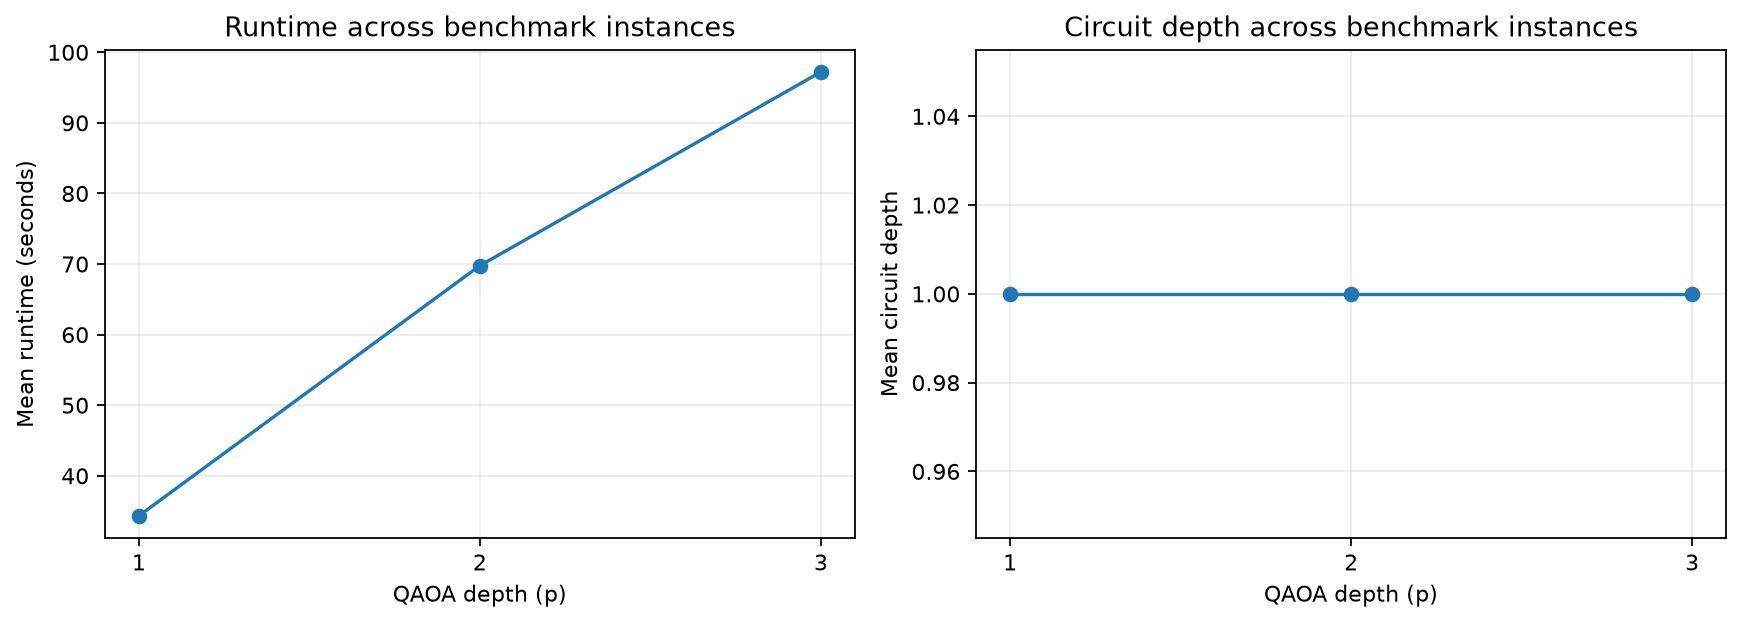
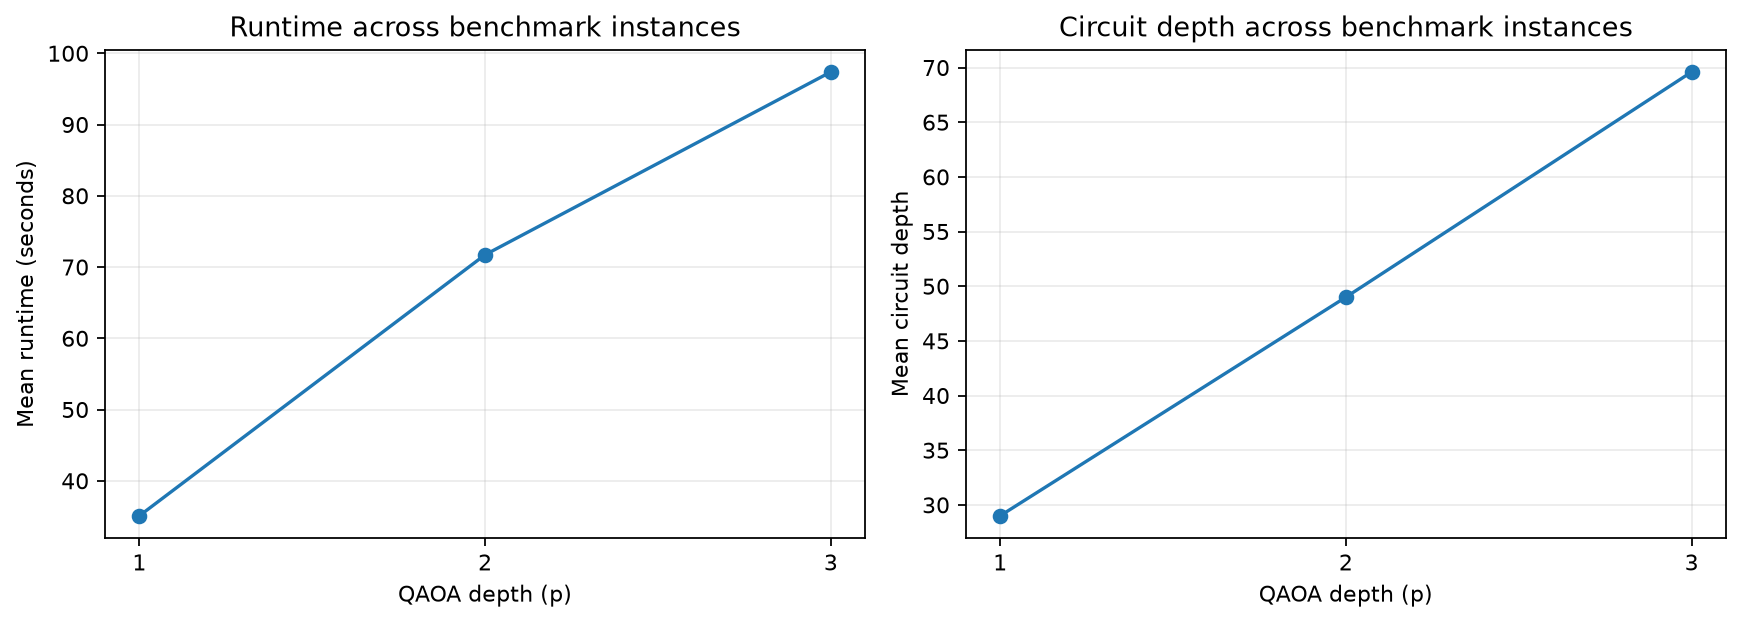
Measure transpiled QAOA circuit depth

diff --git a/tests/test_qaoa.py b/tests/test_qaoa.py
@@ -1,11 +1,13 @@
 import networkx as nx
 import numpy as np
 import pytest
+from qiskit.circuit.library import QAOAAnsatz
 
 from quantumbench.qaoa import (
     bitstring_to_assignment,
     build_maxcut_hamiltonian,
     solve_qaoa_ideal,
+    transpiled_circuit_depth,
 )
 
 
@@ -33,6 +35,20 @@ def test_bitstring_conversion():
     assert bitstring_to_assignment("011") == (1, 1, 0)
 
 
+def test_transpiled_depth_increases_with_qaoa_reps():
+    hamiltonian = build_maxcut_hamiltonian(make_triangle())
+
+    depth_one = transpiled_circuit_depth(
+        QAOAAnsatz(cost_operator=hamiltonian, reps=1)
+    )
+    depth_two = transpiled_circuit_depth(
+        QAOAAnsatz(cost_operator=hamiltonian, reps=2)
+    )
+
+    assert depth_one > 1
+    assert depth_two > depth_one
+
+
 def test_ideal_qaoa_produces_valid_results():
     result = solve_qaoa_ideal(
         make_triangle(),
@@ -45,7 +61,7 @@ def test_ideal_qaoa_produces_valid_results():
     assert sum(result.counts.values()) == 128
     assert 0.0 <= result.expected_cut_value <= 2.0
     assert 0.0 <= result.best_sampled_value <= 2.0
-    assert result.circuit_depth > 0
+    assert result.circuit_depth > 1
     assert len(result.objective_history) > 0
 
 
@@ -72,3 +88,4 @@ def test_ideal_qaoa_is_reproducible():
     assert first.expected_cut_value == pytest.approx(
         second.expected_cut_value
     )
+    assert first.circuit_depth == second.circuit_depth

diff --git a/quantumbench/qaoa.py b/quantumbench/qaoa.py
@@ -3,6 +3,7 @@ from dataclasses import dataclass
 
 import networkx as nx
 import numpy as np
+from qiskit import transpile
 from qiskit.circuit.library import QAOAAnsatz
 from qiskit.quantum_info import SparsePauliOp, Statevector
 from scipy.optimize import minimize
@@ -50,6 +51,16 @@ def build_maxcut_hamiltonian(graph: nx.Graph) -> SparsePauliOp:
         terms,
         num_qubits=len(graph),
     )
+
+
+def transpiled_circuit_depth(circuit) -> int:
+    """Return depth after decomposition into the experiment's basis gates."""
+    transpiled_circuit = transpile(
+        circuit,
+        basis_gates=["rz", "sx", "x", "cx"],
+        optimization_level=1,
+    )
+    return transpiled_circuit.depth()
 
 
 def bitstring_to_assignment(bitstring: str) -> tuple[int, ...]:
@@ -199,6 +210,6 @@ def solve_qaoa_ideal(
         objective_history=objective_history,
         optimizer_success=bool(optimization_result.success),
         optimizer_message=str(optimization_result.message),
-        circuit_depth=optimized_circuit.depth(),
+        circuit_depth=transpiled_circuit_depth(optimized_circuit),
         runtime_seconds=time.perf_counter() - started,
     )

diff --git a/artifacts/experiment_summary.md b/artifacts/experiment_summary.md
@@ -6,9 +6,9 @@ This file is generated from the recorded depth and noise studies.
 
 | Depth | Instances | Mean expected ratio | Mean optimal probability | Mean runtime (s) | Mean circuit depth |
 |---:|---:|---:|---:|---:|---:|
-| 1 | 5 | 0.6837 | 0.1522 | 34.3360 | 1.00 |
-| 2 | 5 | 0.7190 | 0.1539 | 69.7786 | 1.00 |
-| 3 | 5 | 0.7502 | 0.2100 | 97.2187 | 1.00 |
+| 1 | 5 | 0.6837 | 0.1522 | 35.0874 | 29.00 |
+| 2 | 5 | 0.7190 | 0.1539 | 71.7226 | 49.00 |
+| 3 | 5 | 0.7502 | 0.2100 | 97.3830 | 69.60 |
 
 The highest mean expected ratio occurred at p=3. This is a descriptive result, not a significance test.
 
